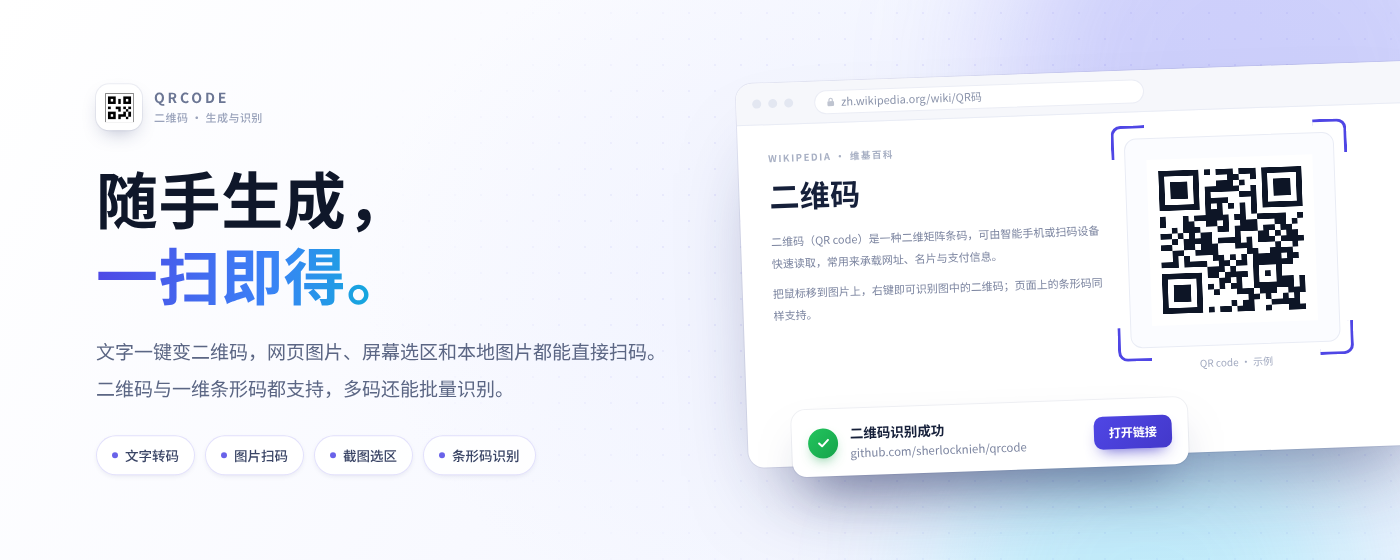
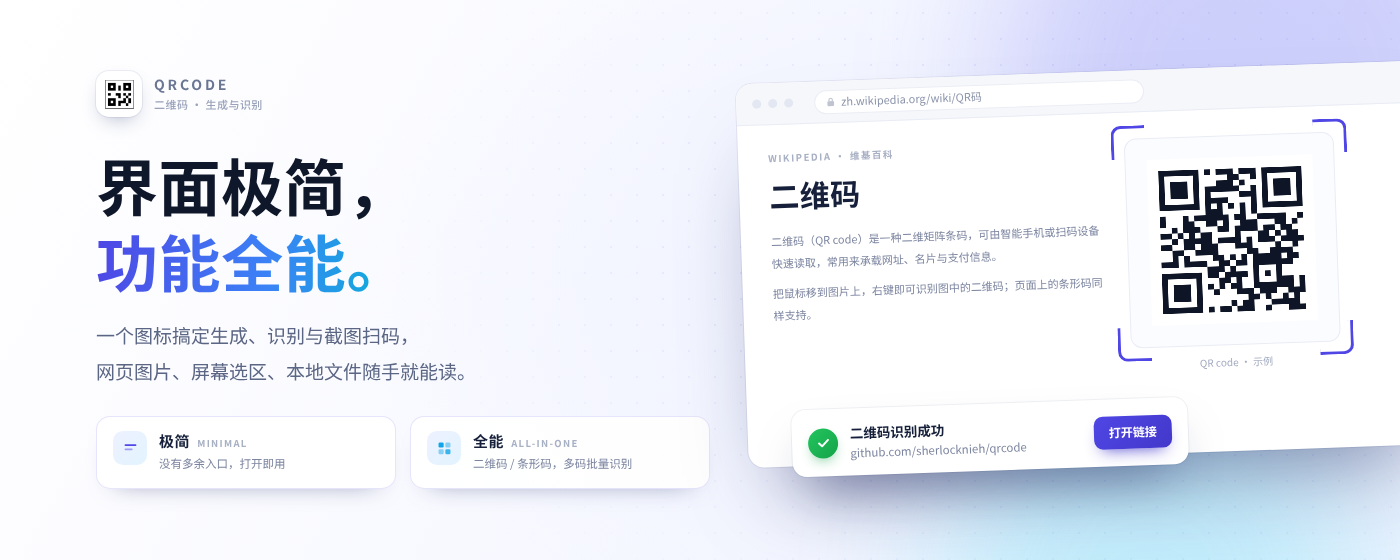
宣传图突出极简与全能两个特色
重做 440x280 小型图块与 1400x560 顶部图块的文案和版式，商店名称与描述同步强调极简、全能。

diff --git a/promo/tile-marquee.html b/promo/tile-marquee.html
@@ -43,17 +43,29 @@
     background: linear-gradient(96deg, #4f46e5 0%, #3b82f6 55%, #06b6d4 100%);
     -webkit-background-clip: text; background-clip: text; color: transparent;
   }
-  .sub { margin-top: 22px; font-size: 19px; font-weight: 400; line-height: 1.95; color: #5b6684; }
+  .sub { margin-top: 20px; font-size: 19px; font-weight: 400; line-height: 1.9; color: #5b6684; }
   .sub div { white-space: nowrap; }
-  .pills { display: flex; gap: 10px; margin-top: 28px; }
-  .pill {
-    display: flex; align-items: center; gap: 7px;
-    padding: 9px 15px; border-radius: 999px; background: rgba(255, 255, 255, .85);
-    border: 1px solid rgba(79, 70, 229, .16); color: #3a4566;
-    font-size: 13.5px; font-weight: 500;
-    box-shadow: 0 2px 6px -3px rgba(30, 41, 99, .18);
+  /* 两个卖点卡片 */
+  .features { display: flex; gap: 14px; margin-top: 26px; }
+  .feat {
+    width: 300px; padding: 14px 16px; border-radius: 14px;
+    display: flex; align-items: flex-start; gap: 12px;
+    background: rgba(255, 255, 255, .88);
+    border: 1px solid rgba(79, 70, 229, .14);
+    box-shadow: 0 12px 26px -20px rgba(30, 41, 99, .6);
   }
-  .pill i { width: 6px; height: 6px; border-radius: 50%; background: #4f46e5; opacity: .85; }
+  .feat .ic {
+    width: 34px; height: 34px; border-radius: 10px; flex: none;
+    display: flex; align-items: center; justify-content: center;
+    background: linear-gradient(135deg, #eef1ff, #e2f4ff);
+  }
+  .feat .ic svg { width: 17px; height: 17px; display: block; }
+  .feat h3 { font-size: 15px; font-weight: 700; color: #16203a; letter-spacing: .04em; }
+  .feat h3 em {
+    font-style: normal; font-size: 9.5px; font-weight: 600; letter-spacing: .14em;
+    color: #a8b0c4; margin-left: 7px;
+  }
+  .feat p { margin-top: 4px; font-size: 11.5px; line-height: 1.55; color: #7c85a0; }
 
   /* ---------- 右侧: 窗口 ---------- */
   .stage {
@@ -135,18 +147,40 @@
         <div class="wordmark">QRCODE<small>二维码 · 生成与识别</small></div>
       </div>
 
-      <div class="title">随手生成，<br><span class="grad">一扫即得。</span></div>
+      <div class="title">界面极简，<br><span class="grad">功能全能。</span></div>
 
       <div class="sub">
-        <div>文字一键变二维码，网页图片、屏幕选区和本地图片都能直接扫码。</div>
-        <div>二维码与一维条形码都支持，多码还能批量识别。</div>
+        <div>一个图标搞定生成、识别与截图扫码，</div>
+        <div>网页图片、屏幕选区、本地文件随手就能读。</div>
       </div>
 
-      <div class="pills">
-        <div class="pill"><i></i>文字转码</div>
-        <div class="pill"><i></i>图片扫码</div>
-        <div class="pill"><i></i>截图选区</div>
-        <div class="pill"><i></i>条形码识别</div>
+      <div class="features">
+        <div class="feat">
+          <div class="ic">
+            <svg viewBox="0 0 20 20" fill="none">
+              <rect x="3" y="5" width="14" height="2.2" rx="1.1" fill="#4f46e5"/>
+              <rect x="3" y="10" width="9.5" height="2.2" rx="1.1" fill="#4f46e5" opacity=".5"/>
+            </svg>
+          </div>
+          <div>
+            <h3>极简<em>MINIMAL</em></h3>
+            <p>没有多余入口，打开即用</p>
+          </div>
+        </div>
+        <div class="feat">
+          <div class="ic">
+            <svg viewBox="0 0 20 20" fill="none">
+              <rect x="3" y="3" width="6" height="6" rx="1.6" fill="#0ea5e9"/>
+              <rect x="11" y="3" width="6" height="6" rx="1.6" fill="#0ea5e9" opacity=".45"/>
+              <rect x="3" y="11" width="6" height="6" rx="1.6" fill="#0ea5e9" opacity=".45"/>
+              <rect x="11" y="11" width="6" height="6" rx="1.6" fill="#0ea5e9" opacity=".8"/>
+            </svg>
+          </div>
+          <div>
+            <h3>全能<em>ALL-IN-ONE</em></h3>
+            <p>二维码 / 条形码，多码批量识别</p>
+          </div>
+        </div>
       </div>
     </div>
 

diff --git a/promo/tile-small.html b/promo/tile-small.html
@@ -41,13 +41,18 @@
   .wordmark { font-size: 13px; font-weight: 600; letter-spacing: .16em; color: #6b7694; text-transform: uppercase; }
 
   .title {
-    margin-top: 16px; font-size: 34px; font-weight: 700; line-height: 1.1;
-    letter-spacing: .02em; color: #0f172a;
+    margin-top: 16px; font-size: 31px; font-weight: 700; line-height: 1.1;
+    letter-spacing: .01em; color: #0f172a;
+  }
+  .title .dot { margin: 0 2px; font-weight: 400; color: #c3c9dd; }
+  .title .grad {
+    background: linear-gradient(96deg, #4f46e5 0%, #3b82f6 60%, #06b6d4 100%);
+    -webkit-background-clip: text; background-clip: text; color: transparent;
   }
   .rule { width: 30px; height: 3px; border-radius: 2px; margin: 13px 0 12px;
     background: linear-gradient(90deg, #4f46e5, #22d3ee); }
-  .sub { font-size: 15px; font-weight: 600; line-height: 1.6; color: #33405c; letter-spacing: .02em; }
-  .sub2 { margin-top: 3px; font-size: 12.5px; font-weight: 400; line-height: 1.6; color: #6b7694; }
+  .sub { font-size: 14.5px; font-weight: 600; line-height: 1.6; color: #33405c; letter-spacing: .02em; }
+  .sub2 { margin-top: 3px; font-size: 12px; font-weight: 400; line-height: 1.6; color: #6b7694; letter-spacing: .01em; }
 
   /* 右侧二维码卡片 */
   .visual {
@@ -95,10 +100,10 @@
         <div class="logo-box"><img src="assets/icon128.png" alt=""></div>
         <div class="wordmark">QRCode</div>
       </div>
-      <div class="title">二维码</div>
+      <div class="title">极简<span class="dot">·</span><span class="grad">全能</span></div>
       <div class="rule"></div>
-      <div class="sub">生成 · 识别 · 截图扫码</div>
-      <div class="sub2">支持二维码与一维条形码</div>
+      <div class="sub">一个图标全搞定</div>
+      <div class="sub2">生成 · 识别 · 二维码与条形码</div>
     </div>
 
     <div class="visual">
